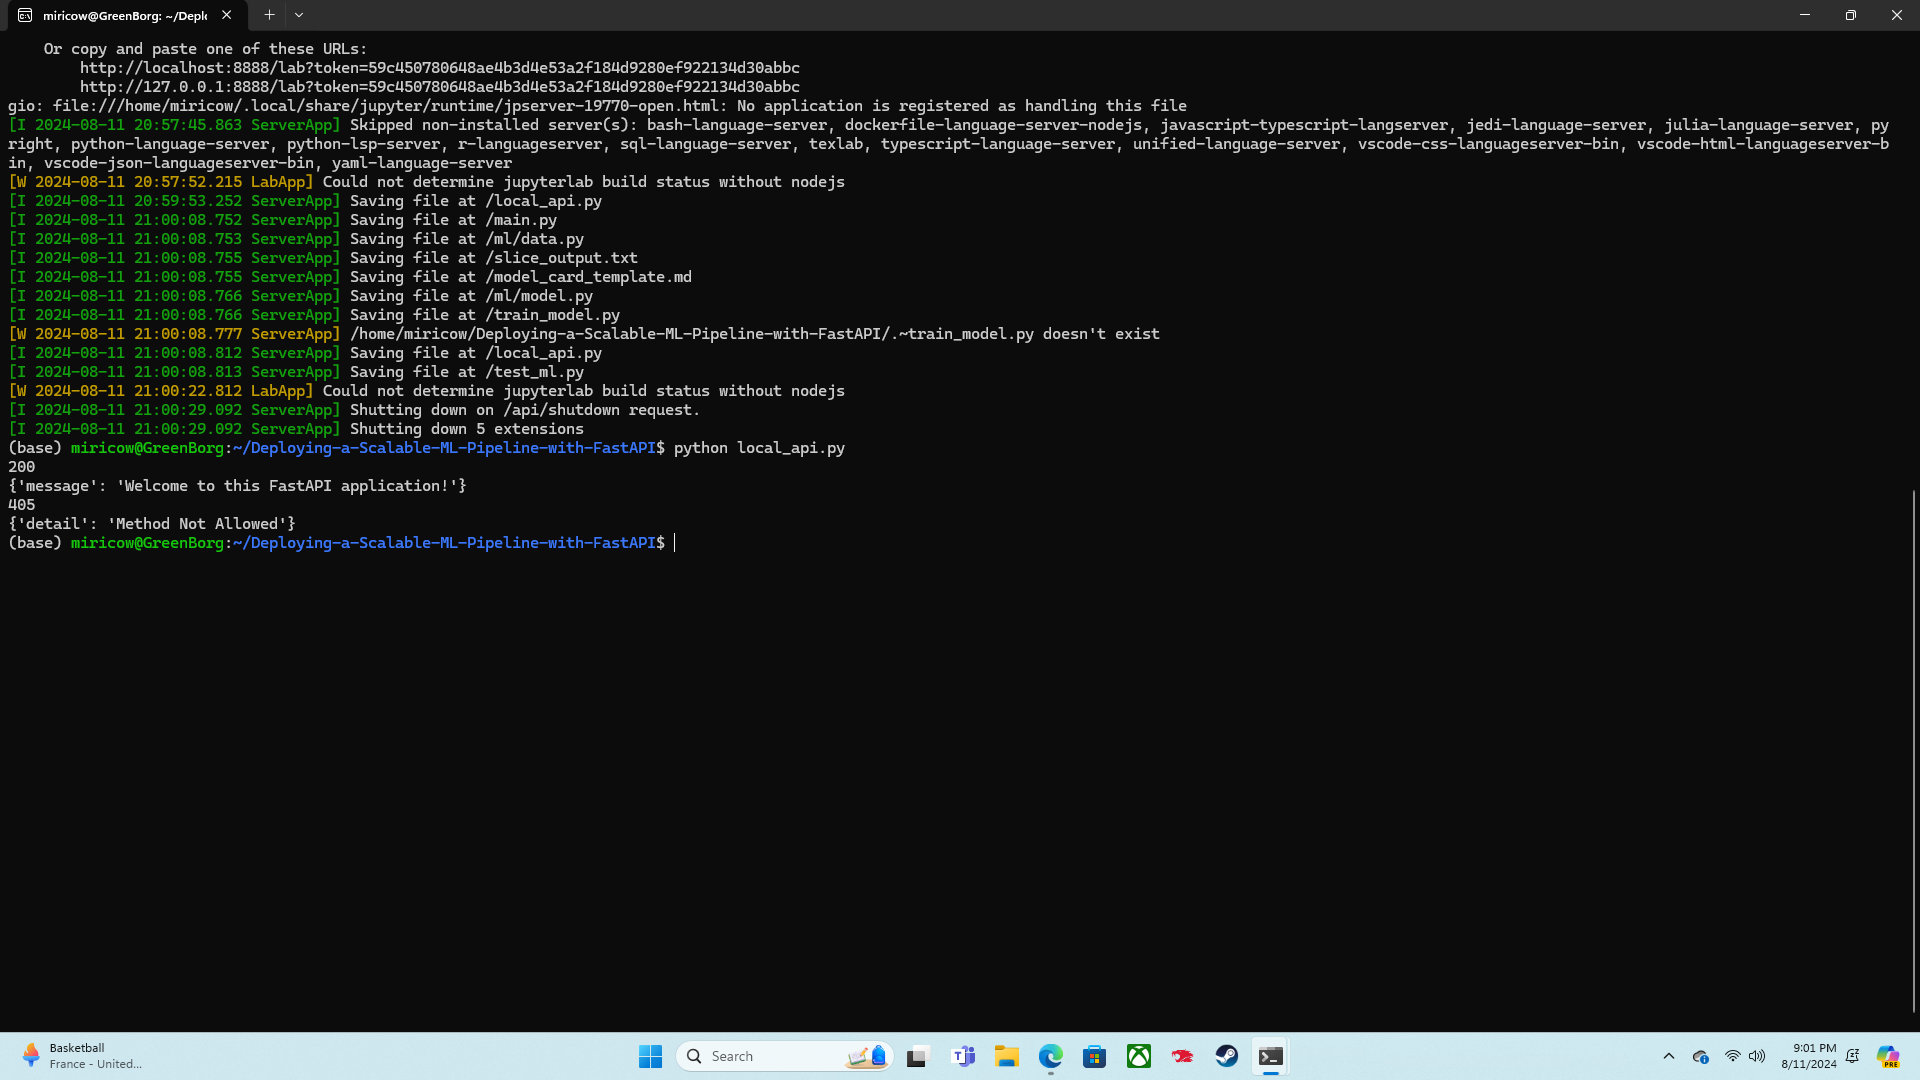
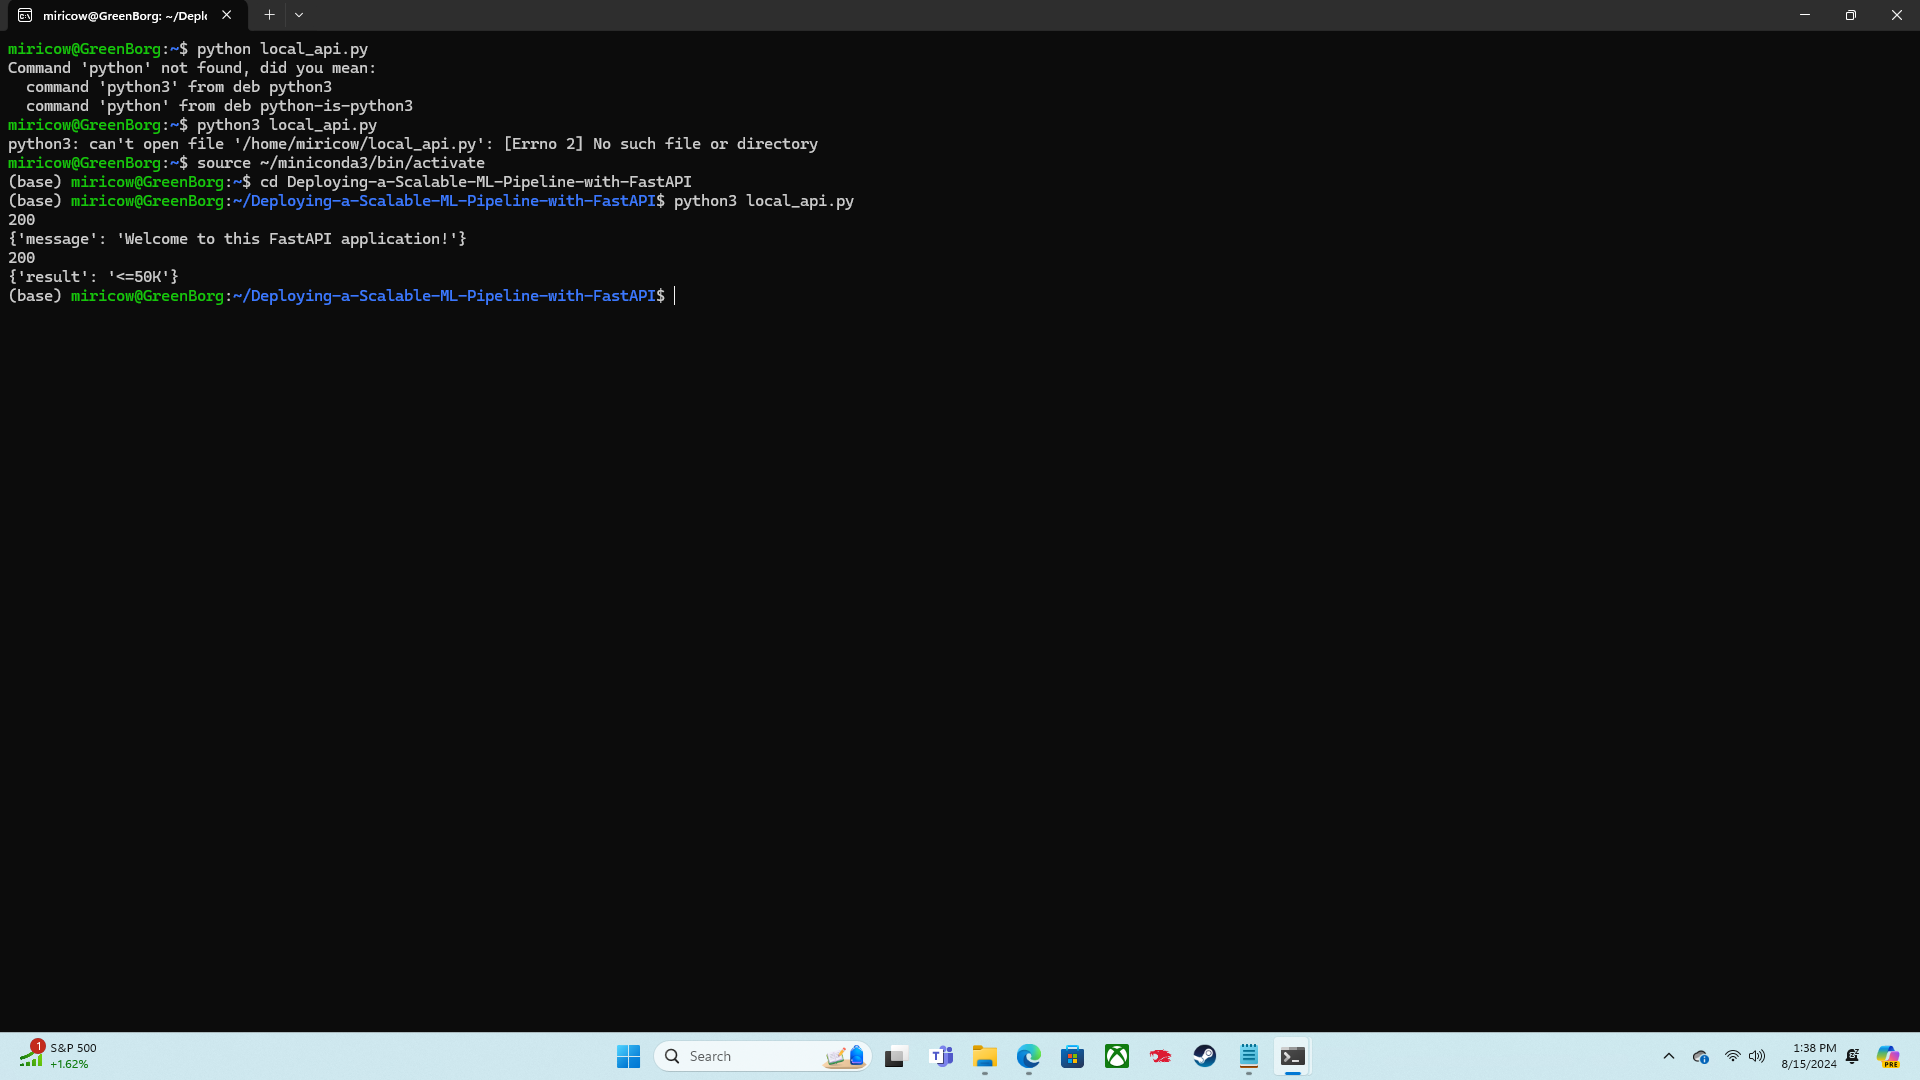
Update No. 2

diff --git a/test_ml.py b/test_ml.py
@@ -2,42 +2,33 @@ import pytest
 import numpy as np
 from sklearn.linear_model import LogisticRegression
 from sklearn.datasets import make_classification
-from sklearn.model_selection import train_test_split
+
+from ml.model import load_model
+
+model = load_model(r"/home/miricow/Deploying-a-Scalable-ML-Pipeline-with-FastAPI/model/model.pkl")
 
 # TODO: implement the first test. Change the function name and input as needed
 def test_fit():
     """
     Test to see if the model can fit the data without errors.
     """
-    X, y = make_classification(n_samples=100, n_features=20, random_state=42)
-    model = LogisticRegression()
-    model.fit(X, y)
-
     assert model.coef_ is not None
     
 
 
 # TODO: implement the second test. Change the function name and input as needed
-def test_predict():
+def test_2():
     """
-    If ML function "predict" returns the expected type numpy array.
+    Testing to see if the model's coefs length is a positive value
     """
-    X, y = make_classification(n_samples=100, n_features=20, random_state=42)
-    X_train, X_test, y_train, y_test = train_test_split(X, y, test_size=0.2, random_state=42)
-    model = LogisticRegression()
-    model.fit(X_train, y_train)
-
-    y_pred = model.predict(X_test)
-
-    assert isinstance(y_pred, np.ndarray)
+    model_size = len(model.coef_)
+    assert model_size > 0
+    
 
 
 # TODO: implement the third test. Change the function name and input as needed
-def test_three():
+def test_LogisticRegression():
     """
     If the ML model uses the expected algorithm, LogisticRegression.
     """
-    X, y = make_classification(n_samples=100, n_features=20, random_state=42)
-    X_train, X_test, y_train, y_test = train_test_split(X, y, test_size=0.2, random_state=42)
-    model = LogisticRegression()
-    model.fit(X_train, y_train)
+    assert isinstance(model, LogisticRegression)

diff --git a/local_api.py b/local_api.py
@@ -29,7 +29,7 @@ data = {
 }
 
 # TODO: send a POST using the data above
-r = requests.post('http://127.0.0.1:8000', json=data)
+r = requests.post('http://127.0.0.1:8000/data/', json=data)
 
 # TODO: print the status code
 print(r.status_code)
